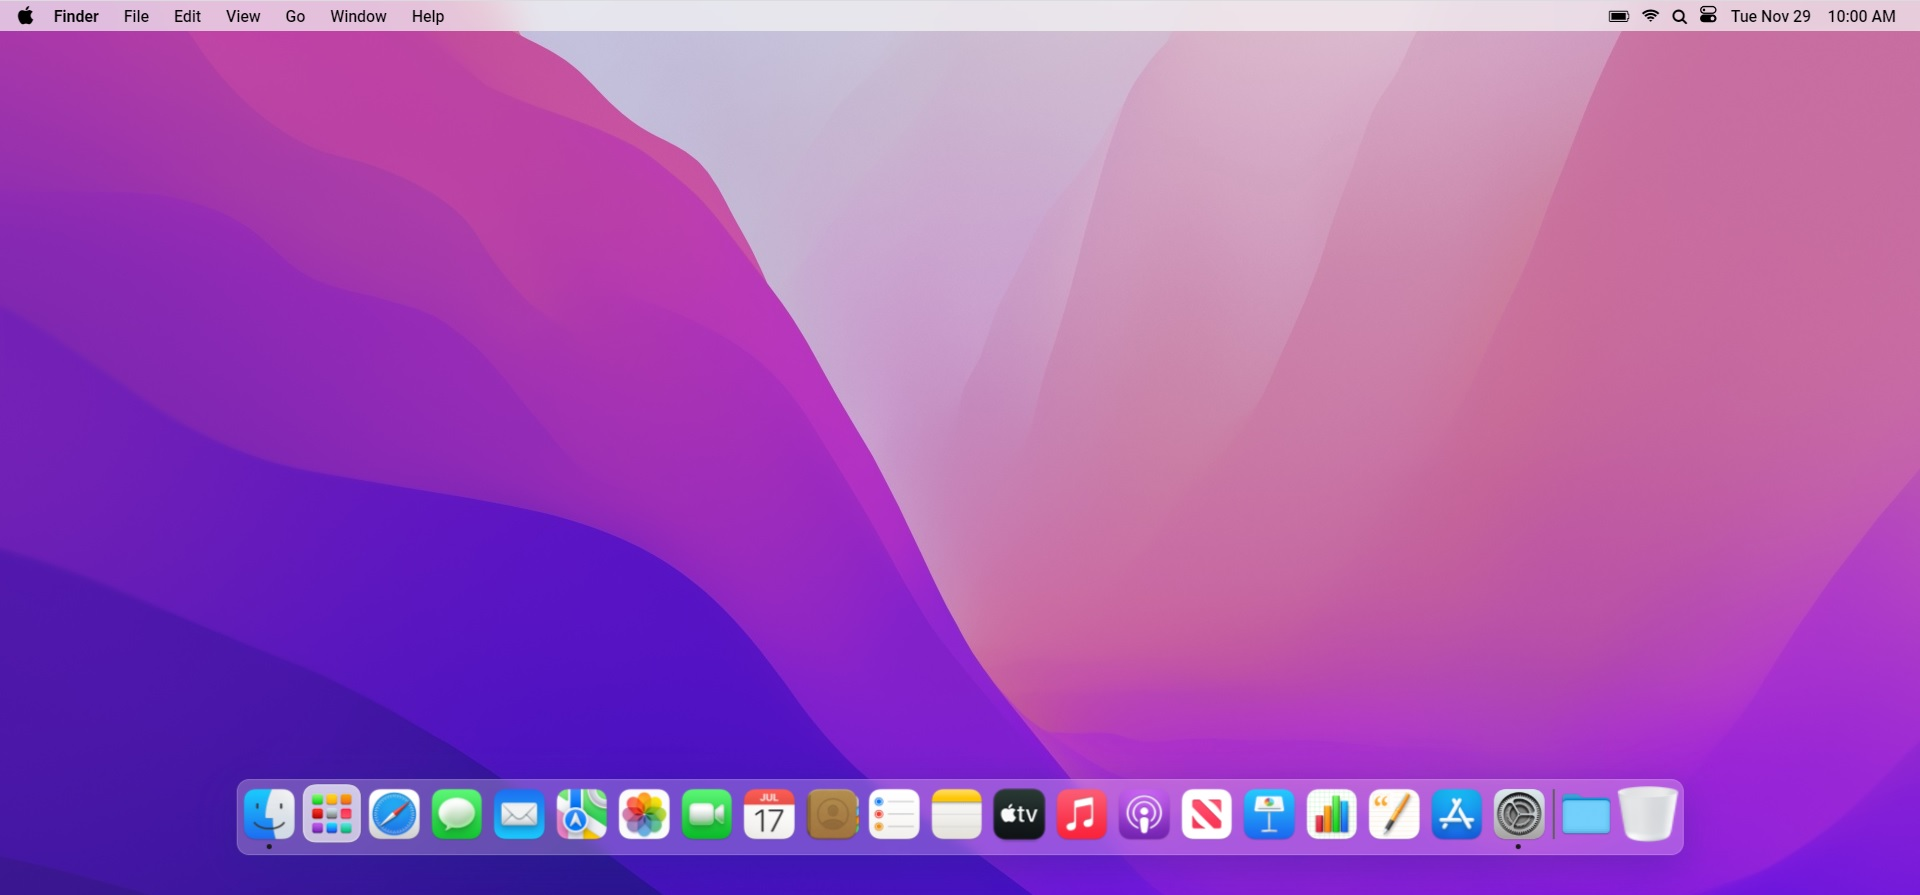
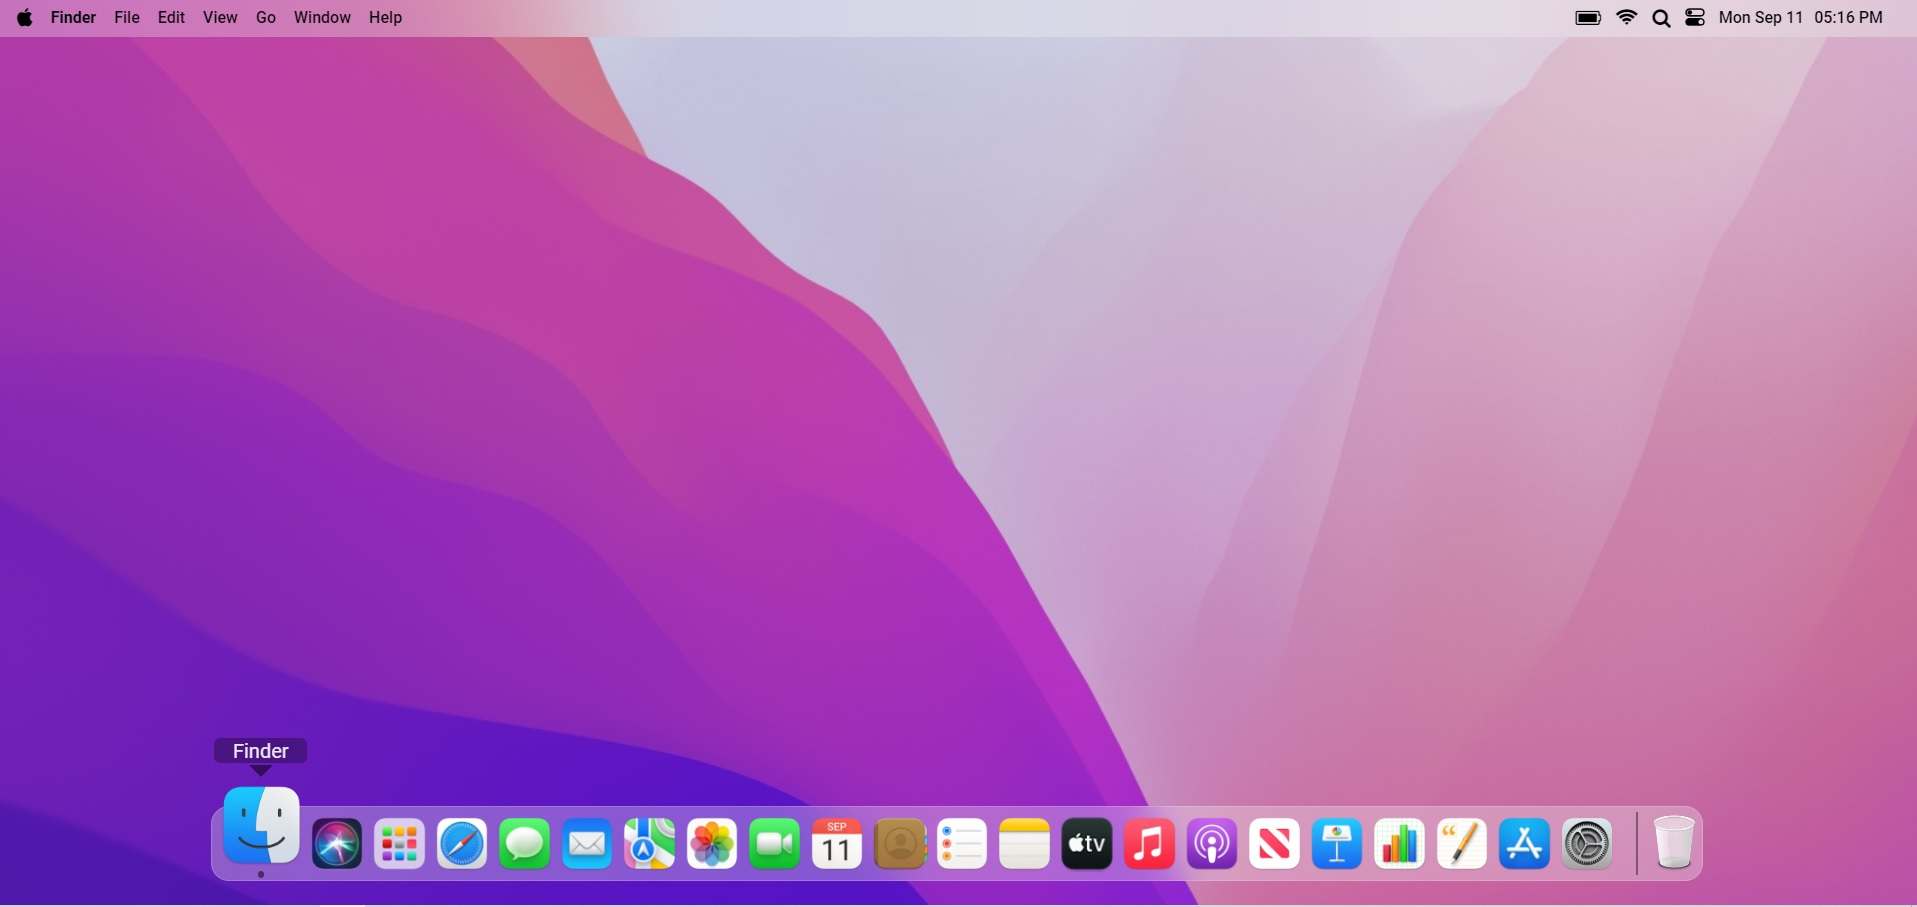
some changes added to this project

diff --git a/styles/style.css b/styles/style.css
@@ -1,0 +1,184 @@
+:root {
+    box-sizing: border-box;
+}
+* {
+    box-sizing: inherit;
+    margin: 0;
+    padding: 0;
+}
+
+html,
+body {
+    box-sizing: inherit;
+    font-family: 'Roboto';
+}
+.container {
+    width: 100%;
+    height: 100vh;
+    background-image: url('../images/background.jpg');
+}
+.header {
+    width: 100%;
+    background-color: rgba(245, 245, 245, 0.3);
+    backdrop-filter: blur(50px);
+    /* border: 0.5rem solid; */
+    padding-top: 0.2rem 0;
+    position: absolute;
+    top: 0;
+    left: 0;
+    height: 30px;
+    display: flex;
+    justify-content: space-between;
+    align-items: center;
+}
+.left {
+    padding: 0.1rem 1rem;
+    display: flex;
+    align-items: center;
+}
+.header_icon {
+    margin-right: 0.7rem;
+}
+.left ul {
+    display: flex;
+    align-items: center;
+    flex-direction: row;
+    text-decoration: none;
+    list-style: none;
+    margin: 0;
+    padding: 0;
+    gap: 0.5rem;
+}
+.left li {
+    padding: 0 0.2rem;
+    font-size: 0.8rem;
+    cursor: pointer;
+}
+.main_text {
+    font-weight: bold;
+}
+.other_text {
+    font-weight: 500;
+}
+.right {
+    padding: 0.1rem 1rem;
+    display: flex;
+    align-items: center;
+    gap: 0.7rem;
+}
+.icons {
+    display: flex;
+    justify-content: center;
+    gap: 0.7rem;
+}
+.control_center {
+    height: 100%;
+    width: 16px;
+    display: flex;
+    align-items: center;
+    justify-content: center;
+}
+.date_and_time {
+    font-weight: 500;
+    font-size: 0.8rem;
+    margin-right: 0.7rem;
+    display: flex;
+    gap: 0.5rem;
+}
+.dock {
+    width: auto;
+    height: 60px;
+    position: absolute;
+    bottom: 20px;
+    left: 50%;
+    border-radius: 0.9rem;
+    display: flex;
+    justify-content: center;
+    transform: translateX(-50%);
+}
+.dock_container {
+    padding: 3px;
+    width: auto;
+    height: 100%;
+    display: flex;
+    align-items: center;
+    justify-content: center;
+    border-radius: 0.9rem;
+    background-color: rgba(245, 245, 245, 0.3);
+    backdrop-filter: blur(14px);
+    border: 1px solid rgba(255, 255, 255, 0.18);
+}
+.dock li {
+    list-style: none;
+    display: flex;
+    align-items: center;
+    justify-content: center;
+    width: 50px;
+    height: 50px;
+    vertical-align: bottom;
+    transition: 0.2s;
+    transform-origin: 50% 100%;
+}
+.dock li:hover {
+    margin: 0 11px 0 11px;
+}
+.li-1 {
+    &::after {
+        position: absolute;
+        width: 5px;
+        height: 5px;
+        border-radius: 100%;
+        background: rgba(0, 0, 0, 0.5);
+        content: '';
+        bottom: 2px;
+    }
+}
+.li-bin {
+    margin-left: 14px;
+    padding-left: 10px;
+    border-left: 1.8px solid rgba(0, 0, 0, 0.4);
+}
+.name {
+    position: absolute;
+    top: -55px;
+    background: rgba(0, 0, 0, 0.3);
+    color: rgba(255, 255, 255, 0.9);
+    height: 10px;
+    padding: 10px 15px;
+    display: flex;
+    align-items: center;
+    justify-content: center;
+    border-radius: 5px;
+    visibility: hidden;
+    &::after {
+        content: '';
+        position: absolute;
+        bottom: -11px;
+        width: 0;
+        height: 0;
+        backdrop-filter: blur(14px);
+        border-left: 10px solid transparent;
+        border-right: 10px solid transparent;
+        border-top: 10px solid rgba(0, 0, 0, 0.5);
+    }
+}
+.icon {
+    width: 100%;
+    height: 100%;
+    object-fit: cover;
+    transition: 0.2s;
+}
+.icon-bin {
+    width: 93% !important;
+    height: 93% !important;
+    object-fit: cover;
+    transition: 0.2s;
+}
+.icon-bin:hover {
+    margin-left: 10px;
+}
+.dock_container li:hover {
+    .name {
+        visibility: visible !important;
+    }
+}

diff --git a/scripts/script.js b/scripts/script.js
@@ -1,0 +1,97 @@
+'use strict;';
+// Calling showTime function at every second
+setInterval(showTime, 1000);
+
+// Defining showTime funcion
+function showTime() {
+    // Getting current time and date
+    let time = new Date();
+    let hour = time.getHours();
+    let min = time.getMinutes();
+    am_pm = 'AM';
+
+    // Setting time for 12 Hrs format
+    if (hour >= 12) {
+        if (hour > 12) hour -= 12;
+        am_pm = 'PM';
+    } else if (hour == 0) {
+        hr = 12;
+        am_pm = 'AM';
+    }
+
+    hour = hour < 10 ? '0' + hour : hour;
+    min = min < 10 ? '0' + min : min;
+
+    let currentTime = hour + ':' + min + ' ' + am_pm;
+
+    // Displaying the time
+    document.getElementById('clock').innerHTML = currentTime;
+}
+function showDate() {
+    let date = new Date();
+    const weekday = ['Sun', 'Mon', 'Tue', 'Wed', 'Thu', 'Fri', 'Sat'];
+    const dayOfWeek = weekday[date.getDay()];
+    const dayOfMonth =
+        date.getDate() < 10 ? '0' + date.getDate() : date.getDate();
+    const months = [
+        'Jan',
+        'Feb',
+        'Mar',
+        'Apr',
+        'May',
+        'Jun',
+        'Jul',
+        'Aug',
+        'Sep',
+        'Oct',
+        'Nov',
+        'Dec',
+    ];
+    const curMonth = months[date.getMonth()];
+    let todayDate = dayOfWeek + ' ' + curMonth + ' ' + dayOfMonth;
+    document.getElementsByClassName('date')[0].textContent = todayDate;
+    document.getElementById(
+        'calendar'
+    ).src = `./menu_icons/calendar/${curMonth.toLowerCase()}/${curMonth.toLowerCase()}_${dayOfMonth}.png`;
+}
+
+/*Date and Time Function Declaring */
+
+showTime();
+showDate();
+
+/*Dock Animations*/
+
+let icons = document.querySelectorAll('.icon');
+let lenght = icons.length;
+
+icons.forEach((item, index) => {
+    item.addEventListener('mouseover', (e) => {
+        focus(e.target, index);
+    });
+    item.addEventListener('mouseleave', (e) => {
+        icons.forEach((item) => {
+            item.style.transform = 'scale(1) translateY(0px)';
+        });
+    });
+});
+
+let focus = (element, index) => {
+    let previous = index - 1;
+    let previous_1 = index - 2;
+
+    let next = index + 1;
+    let next_1 = index + 2;
+
+    if (previous == -1) {
+        element.style.transform = 'scale(1.5) translateY(-10px)';
+    } else if (next == icons.length) {
+        element.style.transform = 'scale(1.5) translateY(-10px)';
+    } else {
+        element.style.transform = 'scale(1.5) translateY(-10px)';
+        icons[previous].style.transform = 'scale(1.2) translateY(-6px)';
+        icons[previous_1].style.transform = 'scale(1.1)';
+        icons[next].style.transform = 'scale(1.2) translateY(-6px)';
+        icons[next_1].style.transform = 'scale(1.1)';
+    }
+};

diff --git a/index.html b/index.html
@@ -5,7 +5,7 @@
         <meta name="viewport" content="width=device-width, initial-scale=1.0">
         <link rel="stylesheet" href="https://cdnjs.cloudflare.com/ajax/libs/font-awesome/4.7.0/css/font-awesome.min.css">
         <link href="https://fonts.googleapis.com/css2?family=Roboto:wght@400;500;700&display=swap" rel="stylesheet">
-        <link rel="stylesheet" href="./style.css">
+        <link rel="stylesheet" href="./styles/style.css">
         <link rel="icon" type="image/png" href="./favicon/icon.png">
         <title>Mac OS UI V 2.0</title>
         
@@ -85,7 +85,7 @@
                         </li>
                         <li class="li-10">
                             <div class="name">Calendar</div>
-                            <img class="icon" src="./menu_icons/calendar.png" alt="calendar_icon">
+                            <img class="icon" id="calendar" src="./menu_icons/calendar.png" alt="calendar_icon">
                         </li>
                         <li class="li-11">
                             <div class="name">Contacts</div>
@@ -144,6 +144,6 @@
                 </div>
             </main>
         </div>
-        <script src="./script.js"></script>
+        <script src="./scripts/script.js"></script>
     </body>
 </html>
